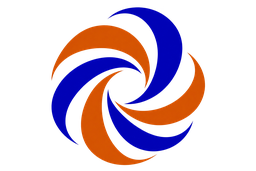
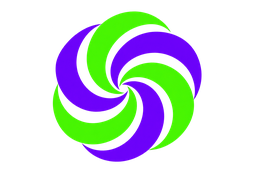
Actualizar colores del ícono de Fosfeno

diff --git a/index.html b/index.html
@@ -5,8 +5,8 @@
     <meta name="viewport" content="width=device-width,initial-scale=1,viewport-fit=cover" />
     <meta name="theme-color" content="#101211" />
     <title>Fosfeno</title>
-    <link rel="icon" type="image/png" href="assets/fosfeno-icon.png?v=3.1.8" />
-    <link rel="apple-touch-icon" href="assets/apple-touch-icon.png?v=3.1.8">
+    <link rel="icon" type="image/png" href="assets/fosfeno-icon.png?v=3.1.11" />
+    <link rel="apple-touch-icon" href="assets/apple-touch-icon.png?v=3.1.11">
     <link rel="stylesheet" href="vendor/codemirror/lib/codemirror.css" />
     <link rel="stylesheet" href="style.css?v=3.1.9" />
     <link rel="stylesheet" href="src/stack.css?v=3.1" />
@@ -16,7 +16,7 @@
   <body>
     <div id="studioBoot" class="boot-frame">
       <div class="boot-lockup">
-        <img class="boot-mark" src="assets/fosfeno-icon.png?v=3.1.8" alt="">
+        <img class="boot-mark" src="assets/fosfeno-icon.png?v=3.1.11" alt="">
         <strong class="boot-name">FOSFENO</strong>
         <p class="boot-status" role="status">Iniciando el motor visual…</p>
         <div class="boot-track" aria-hidden="true"></div>
@@ -36,7 +36,7 @@
       }, 15000)
     </script>
     <header class="topbar">
-      <div class="brand"><img src="assets/fosfeno-icon.png?v=3.1.8" alt="" /><span>FOSFENO</span></div>
+      <div class="brand"><img src="assets/fosfeno-icon.png?v=3.1.11" alt="" /><span>FOSFENO</span></div>
       <nav id="studioNav" aria-label="Herramientas de edición">
         <button data-view="sectors" id="backToLayers" aria-controls="layerDesk"><i data-icon="layers"></i><span>Capas</span></button>
         <button id="mappingSectors" type="button" aria-controls="layerDesk" hidden><i data-icon="layers"></i><span>Capas</span></button>
@@ -622,6 +622,6 @@
     <script src="src/visual-inspector.js?v=3.1.2"></script>
     <script src="src/projector-display.js?v=3.1"></script>
     <script src="src/projector-code.js?v=3.1"></script>
-    <script src="src/app.js?v=3.1.10"></script>
+    <script src="src/app.js?v=3.1.11"></script>
   </body>
 </html>

diff --git a/abrir.html b/abrir.html
@@ -3,13 +3,13 @@
   <meta charset="utf-8">
   <meta name="viewport" content="width=device-width, initial-scale=1">
   <meta name="theme-color" content="#101311">
-  <link rel="icon" type="image/png" href="assets/fosfeno-icon.png?v=3.1.8">
-  <link rel="apple-touch-icon" href="assets/apple-touch-icon.png?v=3.1.8">
+  <link rel="icon" type="image/png" href="assets/fosfeno-icon.png?v=3.1.11">
+  <link rel="apple-touch-icon" href="assets/apple-touch-icon.png?v=3.1.11">
   <link rel="stylesheet" href="boot.css?v=3.1.10">
     <title>Fosfeno</title>
   <body class="boot-frame">
     <main class="boot-lockup">
-      <img class="boot-mark" src="assets/fosfeno-icon.png?v=3.1.8" alt="">
+      <img class="boot-mark" src="assets/fosfeno-icon.png?v=3.1.11" alt="">
       <strong class="boot-name">FOSFENO</strong>
       <p class="boot-status" id="estado" role="status">Abriendo el estudio…</p>
       <div class="boot-track" aria-hidden="true"></div>
@@ -18,7 +18,7 @@
     </main>
     <script>
       const destino = new URL(location.protocol==='file:' ? 'index.html' : './', location.href)
-      const version = '3.1.10'
+      const version = '3.1.11'
       destino.search = location.search
       destino.searchParams.set('v',version)
       destino.hash = location.hash

diff --git a/sw.js b/sw.js
@@ -1,6 +1,6 @@
 // Bump the asset version when publishing a new edition of the cabina.
 const prefix = 'fosfeno-' + new URL(self.registration.scope).pathname + '-'
-const cacheName = prefix + 'v3.1.10'
+const cacheName = prefix + 'v3.1.11'
 const files = [
   'index.html',
   'abrir.html',
@@ -41,7 +41,7 @@ const files = [
   'src/studio-stack.js?v=3.1',
   'src/projector-display.js?v=3.1',
   'src/projector-code.js?v=3.1',
-  'src/app.js?v=3.1.10',
+  'src/app.js?v=3.1.11',
   'src/score-tools.js?v=3.1',
   'src/sectors.js?v=3.1',
   'src/sector-program.js?v=3.1',
@@ -67,8 +67,8 @@ const files = [
   'vendor/codemirror/addon/edit/matchbrackets.js',
   'vendor/codemirror/addon/comment/comment.js',
   'vendor/beautify/beautify.min.js',
-  'assets/fosfeno-icon.png?v=3.1.8',
-  'assets/apple-touch-icon.png?v=3.1.8',
+  'assets/fosfeno-icon.png?v=3.1.11',
+  'assets/apple-touch-icon.png?v=3.1.11',
   'boot.css?v=3.1.10',
   'assets/barlow-condensed-bold.ttf',
   'assets/space-mono.ttf',

diff --git a/mapeo.html b/mapeo.html
@@ -5,7 +5,7 @@
     <meta name="viewport" content="width=device-width,initial-scale=1,viewport-fit=cover">
     <meta name="theme-color" content="#101211">
     <title>Fosfeno</title>
-    <link rel="icon" type="image/png" href="assets/fosfeno-icon.png?v=3.1.8">
+    <link rel="icon" type="image/png" href="assets/fosfeno-icon.png?v=3.1.11">
     <link rel="stylesheet" href="style.css?v=3.1.9">
     <link rel="stylesheet" href="mapping.css?v=3.1">
     <link rel="stylesheet" href="boot.css?v=3.1.10">
@@ -20,7 +20,7 @@
   <body class="mapping">
     <div id="mapBoot" class="boot-frame">
       <div class="boot-lockup">
-        <img class="boot-mark" src="assets/fosfeno-icon.png?v=3.1.8" alt="">
+        <img class="boot-mark" src="assets/fosfeno-icon.png?v=3.1.11" alt="">
         <strong class="boot-name">FOSFENO</strong>
         <p class="boot-status" role="status">Preparando Mapeo…</p>
         <div class="boot-track" aria-hidden="true"></div>

diff --git a/src/app.js b/src/app.js
@@ -1,6 +1,6 @@
 ;(() => {
   'use strict'
-  const edition = '3.1.10'
+  const edition = '3.1.11'
   const blankScore = '// Tu sketch Hydra'
   const $ = (id) => document.getElementById(id)
   const all = (sel, root = document) => Array.from(root.querySelectorAll(sel))

diff --git a/README.md b/README.md
@@ -1,10 +1,10 @@
-# Fosfeno 3.1.10 · Hydra en vivo
+# Fosfeno 3.1.11 · Hydra en vivo
 
 Editor de live coding y sintetizador de video con Hydra. El JavaScript del sketch genera la imagen base. Los sectores opcionales componen sus efectos encima de esa salida. Podés empezar en blanco, editar una pieza existente o generar un nuevo grafo de señales a partir de una semilla.
 
 Al entrar sin un enlace de sketch, Fosfeno genera una pieza con una semilla aleatoria. La semilla aparece en el nombre y en el código. Los borradores se conservan y los enlaces identificados recuperan su pieza. *MULTIVERSE*, de e_e (@eerie_ear), queda en la Biblioteca con el código y la atribución originales. [Abrir el mismo sketch en Hydra](https://hydra.ojack.xyz/?sketch_id=eerie_ear_0) · [Comparación en navegador y límites](docs/paridad-hydra.md)
 
-[Abrir el estudio](https://luzbel33.github.io/fosfeno/abrir.html?v=3.1.10) · [Abrir Mapeo](https://luzbel33.github.io/fosfeno/abrir.html?v=3.1.10&mode=mapeo) · [Abrir Glitch River de Flor de Fuego](https://luzbel33.github.io/fosfeno/abrir.html?v=3.1.10&sketch_id=flor_2) · [Ver el editor en movimiento](media/fosfeno-demo.mp4)
+[Abrir el estudio](https://luzbel33.github.io/fosfeno/abrir.html?v=3.1.11) · [Abrir Mapeo](https://luzbel33.github.io/fosfeno/abrir.html?v=3.1.11&mode=mapeo) · [Abrir Glitch River de Flor de Fuego](https://luzbel33.github.io/fosfeno/abrir.html?v=3.1.11&sketch_id=flor_2) · [Ver el editor en movimiento](media/fosfeno-demo.mp4)
 
 ## Tocar una visual
 
